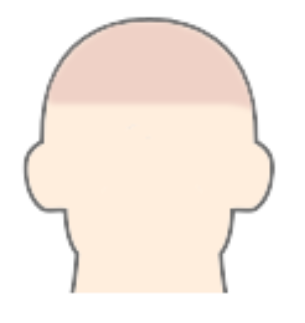
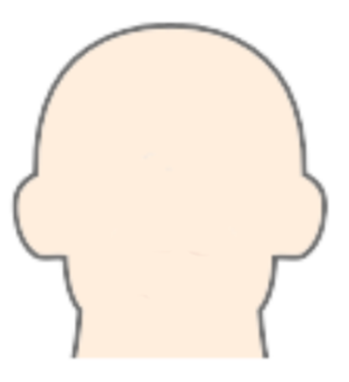
before final part 4

Changed region(s): [[0.0295, 0.031, 0.9443, 0.9598]]

diff --git a/src/app/body/body.component.ts b/src/app/body/body.component.ts
@@ -83,7 +83,7 @@ export class BodyComponent implements OnInit {
   head2(event: MouseEvent) {
     if (event.type == "mouseenter") {
       //console.log("enter");
-      this.img = "assets/pictures/head.PNG";
+      this.img = "assets/pictures/head2.PNG";
     } else {
       this.img = "assets/pictures/head.PNG";
     }
